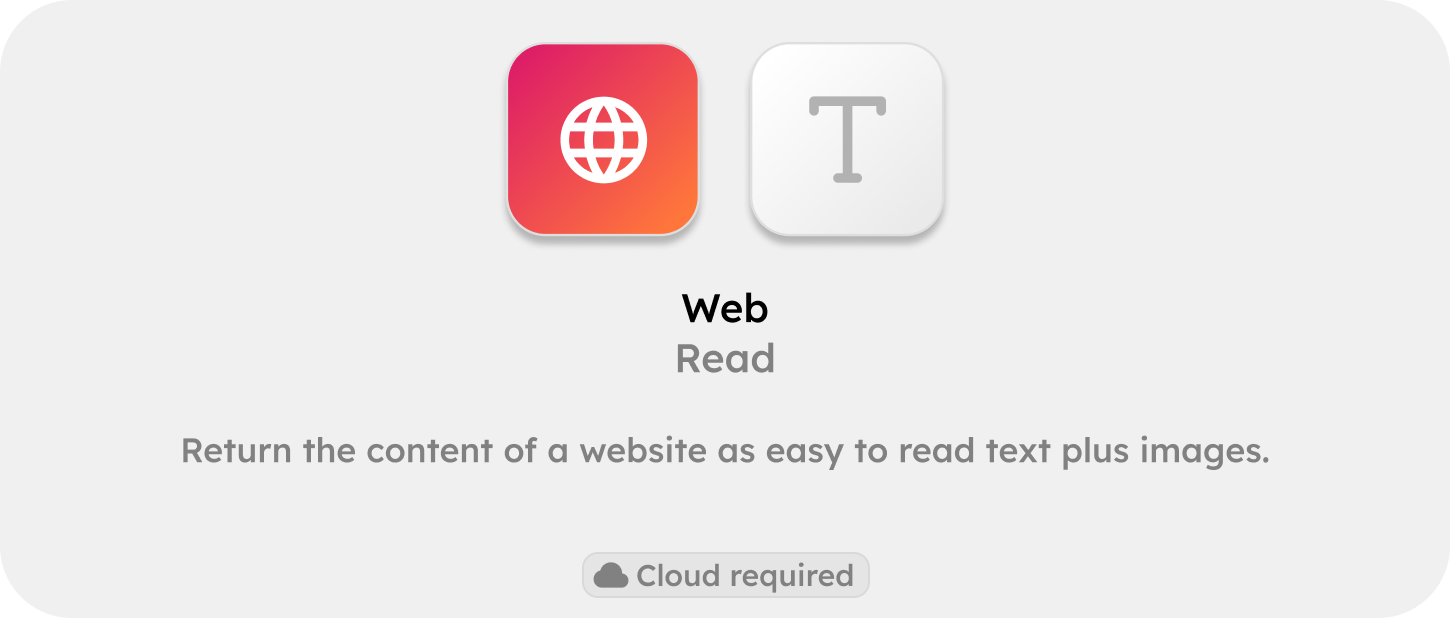
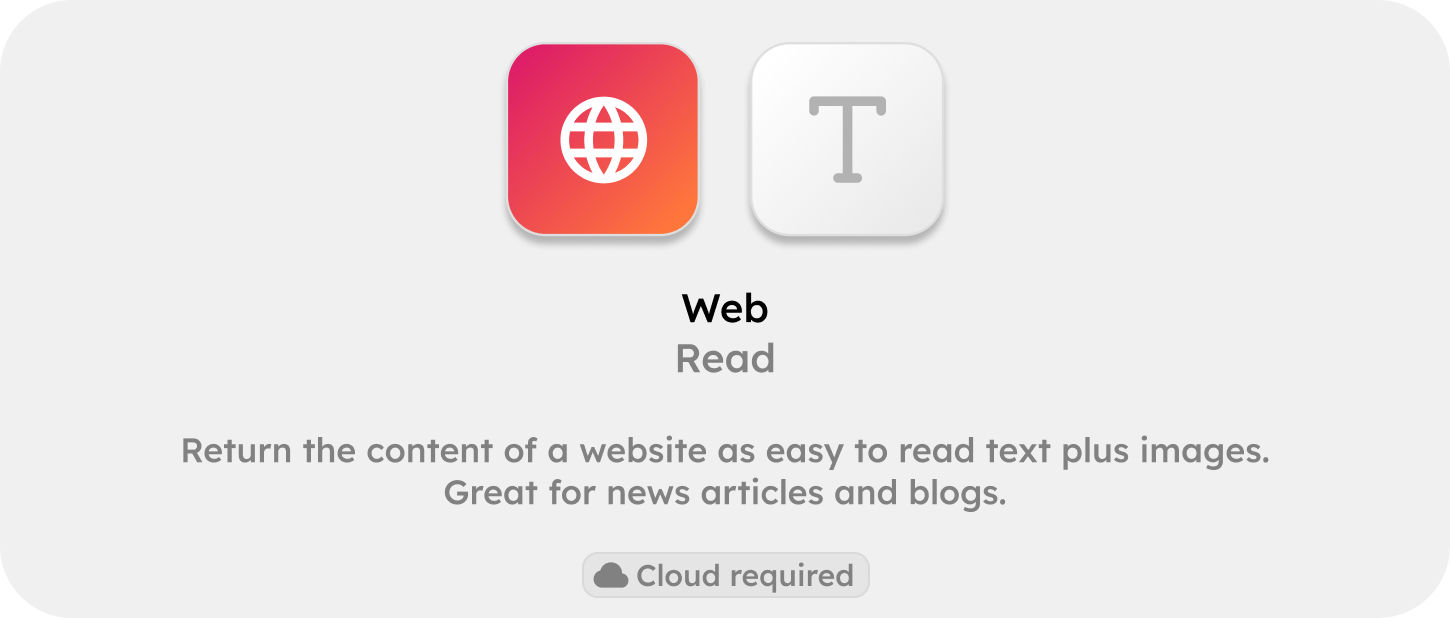
added base for view website api endpoint

Changed region(s): [[0.3103, 0.7686, 0.6828, 0.8301]]

diff --git a/server/api/api.py b/server/api/api.py
@@ -150,6 +150,12 @@ from server.api.models.skills.web.skills_web_read import (
     web_read_input_example,
     web_read_output_example
 )
+from server.api.models.skills.web.skills_web_view import (
+    WebViewInput,
+    WebViewOutput,
+    web_view_input_example,
+    web_view_output_example
+)
 from server.api.models.skills.files.skills_files_upload import (
     FilesUploadOutput,
     files_upload_output_example
@@ -212,6 +218,7 @@ from server.api.endpoints.skills.files.upload import upload as skill_files_uploa
 from server.api.endpoints.skills.files.delete import delete as skill_files_delete_processing
 from server.api.endpoints.skills.docs.create import create as skill_docs_create_processing
 from server.api.endpoints.skills.web.read import read as skill_web_read_processing
+from server.api.endpoints.skills.web.view import view as skill_web_view_processing
 from server.api.endpoints.skills.finance.get_report import get_report as skill_finance_get_report_processing
 from server.api.endpoints.skills.finance.get_transactions import get_transactions as skill_finance_get_transactions_processing
 from server.api.endpoints.skills.videos.get_transcript import get_transcript as skill_videos_get_transcript_processing
@@ -522,6 +529,12 @@ def custom_openapi():
     })
     set_example(openapi_schema, "/v1/{team_slug}/skills/web/read", "post", "responses", {
         "Example 1": web_read_output_example
+    }, "200")
+    set_example(openapi_schema, "/v1/{team_slug}/skills/web/view", "post", "requestBody", {
+        "Example 1": web_view_input_example
+    })
+    set_example(openapi_schema, "/v1/{team_slug}/skills/web/view", "post", "responses", {
+        "Example 1": web_view_output_example
     }, "200")
     set_example(openapi_schema, "/v1/{team_slug}/skills/files/upload", "post", "responses", {
         "Example 1": files_upload_output_example
@@ -1202,6 +1215,25 @@ async def skill_web_read(
     return await skill_web_read_processing(
         url=parameters.url,
         include_images=parameters.include_images
+    )
+
+
+# POST /skills/web/view (view a web page)
+@skills_web_router.post("/v1/{team_slug}/skills/web/view", **skills_web_endpoints["view"])
+@limiter.limit("20/minute")
+async def skill_web_view(
+    request: Request,
+    parameters: WebViewInput,
+    team_slug: str = Path(..., **input_parameter_descriptions["team_slug"]),
+    token: str = Depends(get_credentials)
+) -> WebViewOutput:
+    await validate_permissions(
+        endpoint="/skills/web/view",
+        team_slug=team_slug,
+        user_api_token=token
+    )
+    return await skill_web_view_processing(
+        url=parameters.url
     )
 
 

diff --git a/server/api/models/skills/web/skills_web_view.py b/server/api/models/skills/web/skills_web_view.py
@@ -1,0 +1,39 @@
+from pydantic import BaseModel, Field
+from typing import List, Optional
+
+# GET /skill/web/view (view a web page)
+
+class WebViewInput(BaseModel):
+    """This is the model for the input of the web view skill"""
+    url: str = Field(..., description="URL of the web page")
+
+class WebViewOutput(BaseModel):
+    """This is the model for the output of the web view skill"""
+    url: str = Field(..., description="URL of the web page")
+    title: str = Field(..., description="Title of the web page")
+    description: Optional[str] = Field(..., description="Description of the web page")
+    keywords: Optional[List[str]] = Field(..., description="Keywords of the web page")
+    authors: Optional[List[str]] = Field(..., description="Authors of the web page")
+    publisher: Optional[str] = Field(..., description="Publisher of the web page")
+    published_date: Optional[str] = Field(..., description="Published date of the web page")
+
+web_view_input_examples = [
+    "https://www.theverge.com/2024/9/20/24248356/iphone-16-camera-photographic-styles",
+    "https://www.theverge.com/2024/9/20/24249856/battery-ev-renewable-energy-doe-funding",
+    "https://www.tagesschau.de/inland/gesellschaft/fridays-for-future-254.html",
+    "https://www.anthropic.com/news/claude-3-5-sonnet"
+]
+
+web_view_input_example = {
+    "url": "https://www.anthropic.com/news/claude-3-5-sonnet"
+}
+
+web_view_output_example = {
+    "url": "https://www.anthropic.com/news/claude-3-5-sonnet",
+    "title": "Introducing Claude 3.5 Sonnet",
+    "description": "Introducing Claude 3.5 Sonnet—our most intelligent model yet. Sonnet now outperforms competitor models and Claude 3 Opus on key evaluations, at twice the speed.",
+    "keywords": [],
+    "authors": [],
+    "publisher": "https://www.anthropic.com",
+    "published_date": None
+}

diff --git a/server/api/parameters.py b/server/api/parameters.py
@@ -76,6 +76,9 @@ from server.api.models.skills.videos.skills_videos_get_transcript import (
 from server.api.models.skills.web.skills_web_read import (
     WebReadOutput
 )
+from server.api.models.skills.web.skills_web_view import (
+    WebViewOutput
+)
 from server.api.models.users.users_create import (
     UsersCreateOutput
 )
@@ -290,7 +293,13 @@ skills_web_endpoints = {
     "read":{
         "response_model":WebReadOutput,
         "summary": "Read",
-        "description": "<img src='images/skills/web/read.png' alt='Return the content of a website as easy to read text plus images.'>",
+        "description": "<img src='images/skills/web/read.png' alt='Return the content of a website as easy to read text plus images. Great for news articles and blogs.'>",
+        "responses": generate_responses([200, 400, 401, 403, 404, 422, 500])
+    },
+    "view":{
+        "response_model":WebViewOutput,
+        "summary": "View",
+        "description": "<img src='images/skills/web/view.png' alt='Return a website in its full form, including content that loads with scripts. Great for more complex websites.'>",
         "responses": generate_responses([200, 400, 401, 403, 404, 422, 500])
     }
 }

diff --git a/server/api/endpoints/skills/web/view.py b/server/api/endpoints/skills/web/view.py
@@ -1,0 +1,33 @@
+from server.api.models.skills.web.skills_web_view import WebViewOutput
+import logging
+from fastapi import HTTPException
+
+# Set up logger
+logger = logging.getLogger(__name__)
+
+async def view(
+    url: str
+) -> WebViewOutput:
+    """
+    View a web page and return the content in markdown format.
+    """
+    try:
+        logger.info(f"Viewing web page: {url}")
+        # TODO: Implement the view function
+
+        web_view_output: WebViewOutput = WebViewOutput(
+            url=url,
+            title="",
+            description="",
+            keywords=[],
+            authors=[],
+            publisher="",
+            published_date=""
+        )
+
+        logger.info(f"Successfully viewed web page: {url}")
+
+        return web_view_output
+    except Exception as e:
+        logger.error(f"Error viewing web page: {e}")
+        raise HTTPException(status_code=500, detail="Error viewing web page")

diff --git a/server/api/endpoints/skills/web/read.py b/server/api/endpoints/skills/web/read.py
@@ -5,7 +5,6 @@ from newspaper import Article, ArticleException
 import re
 from bs4 import BeautifulSoup
 from urllib.parse import urljoin
-import mimetypes
 
 # Set up logger
 logger = logging.getLogger(__name__)
@@ -53,6 +52,9 @@ async def read(
         url: str,
         include_images: bool = True
     ) -> WebReadOutput:
+    """
+    Read a web page and return the content in markdown format.
+    """
     try:
         logger.debug(f"Reading web page with URL: {url}")
 
